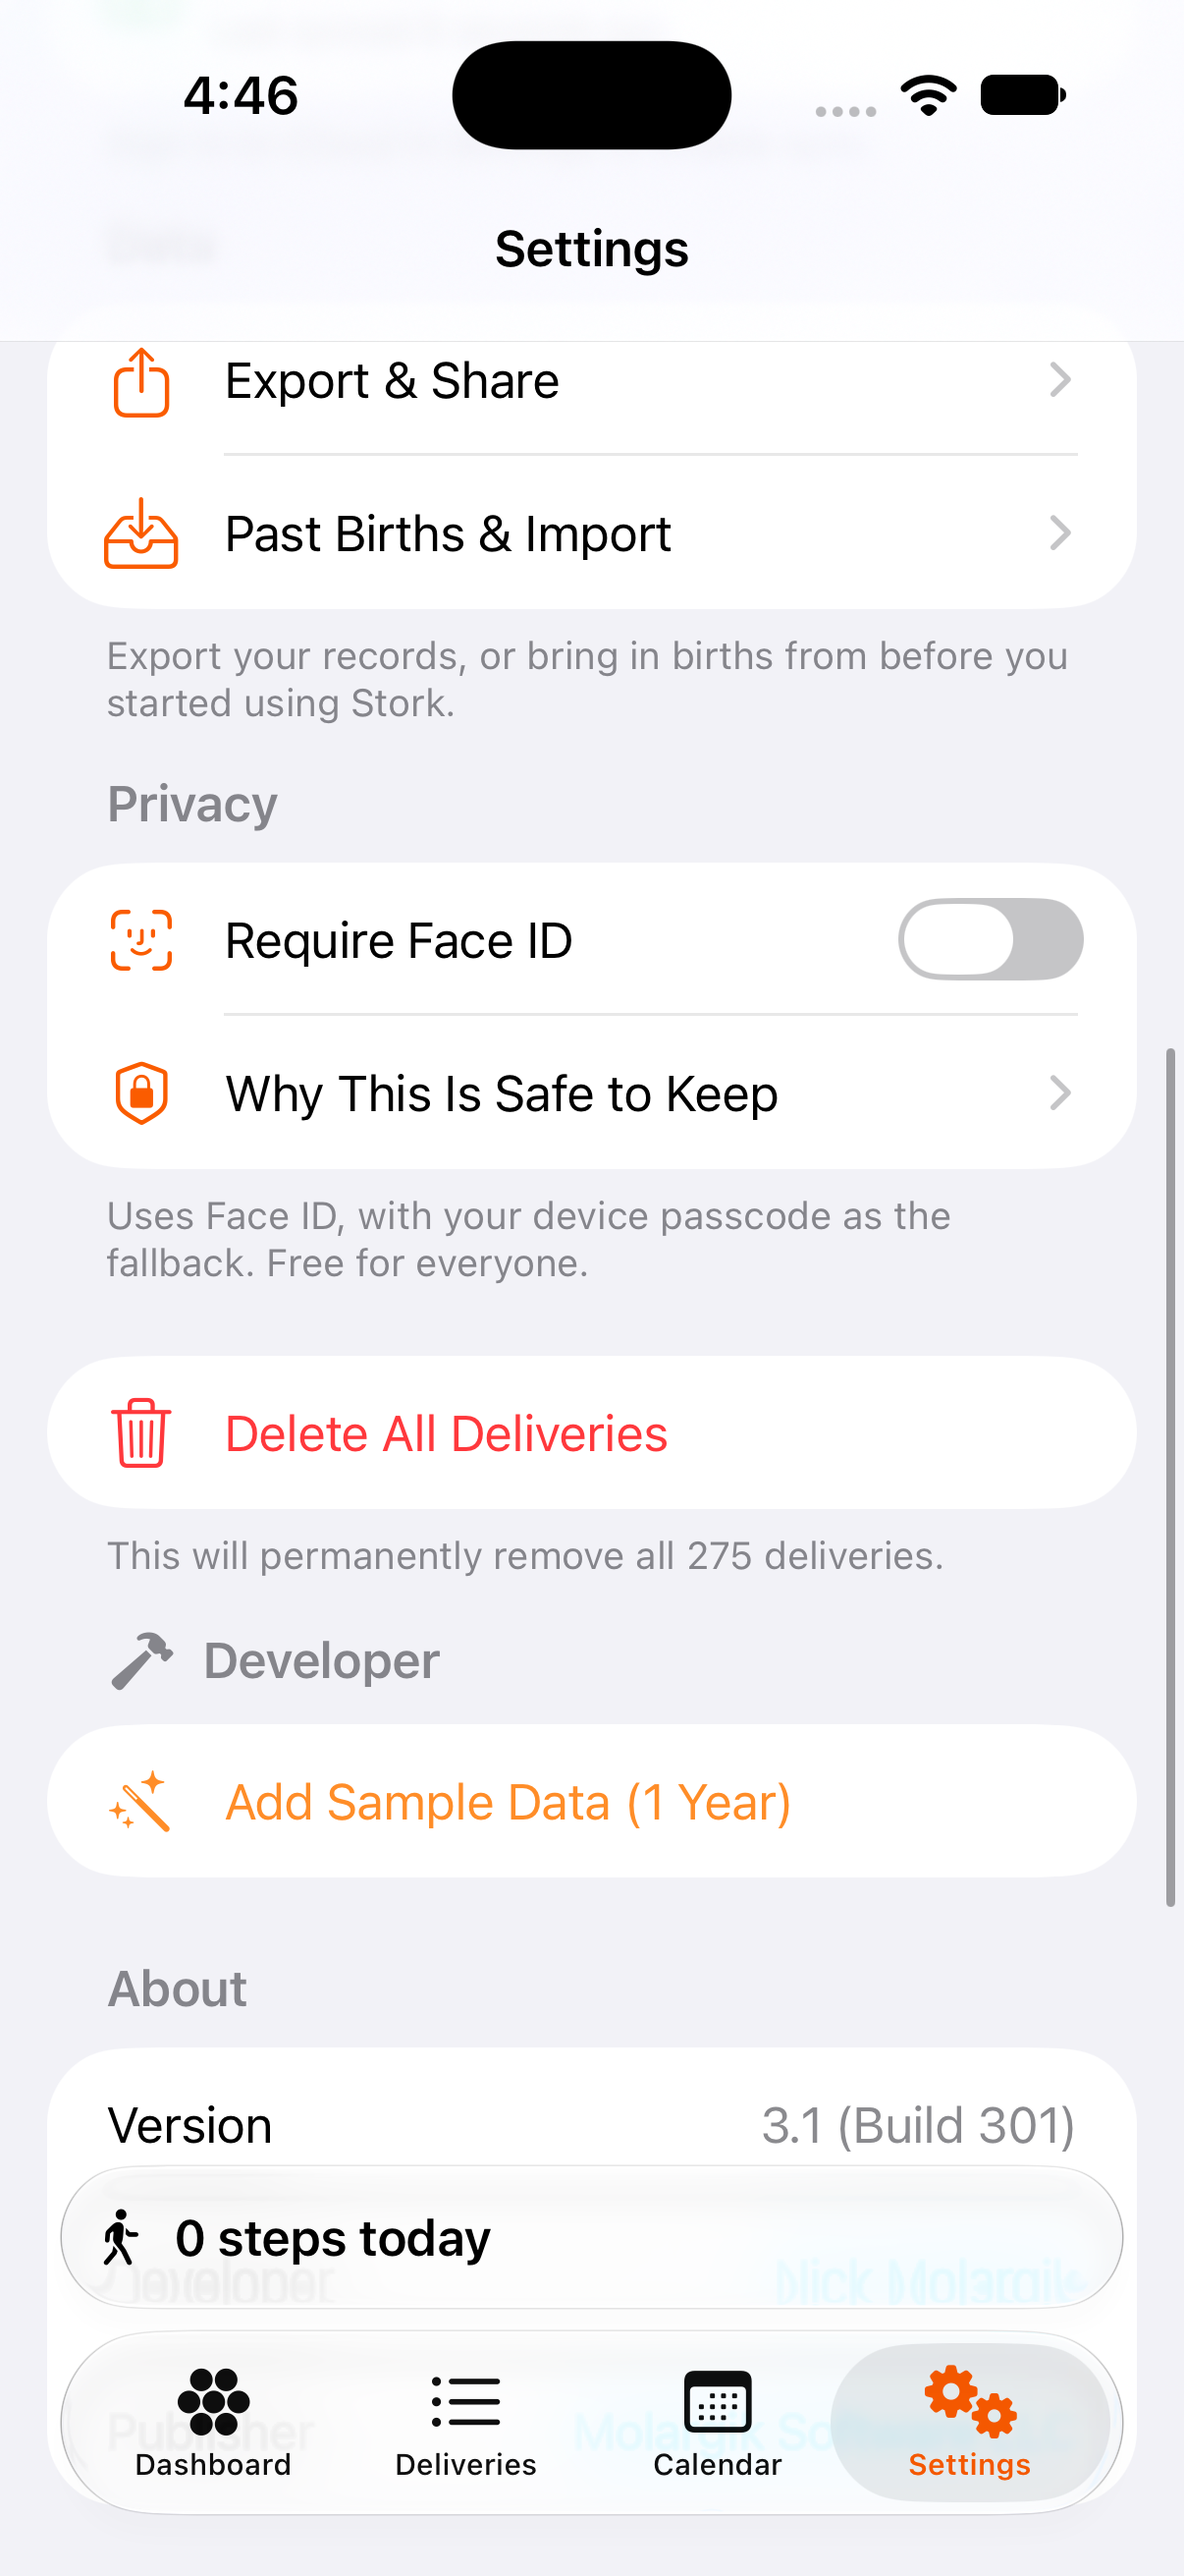
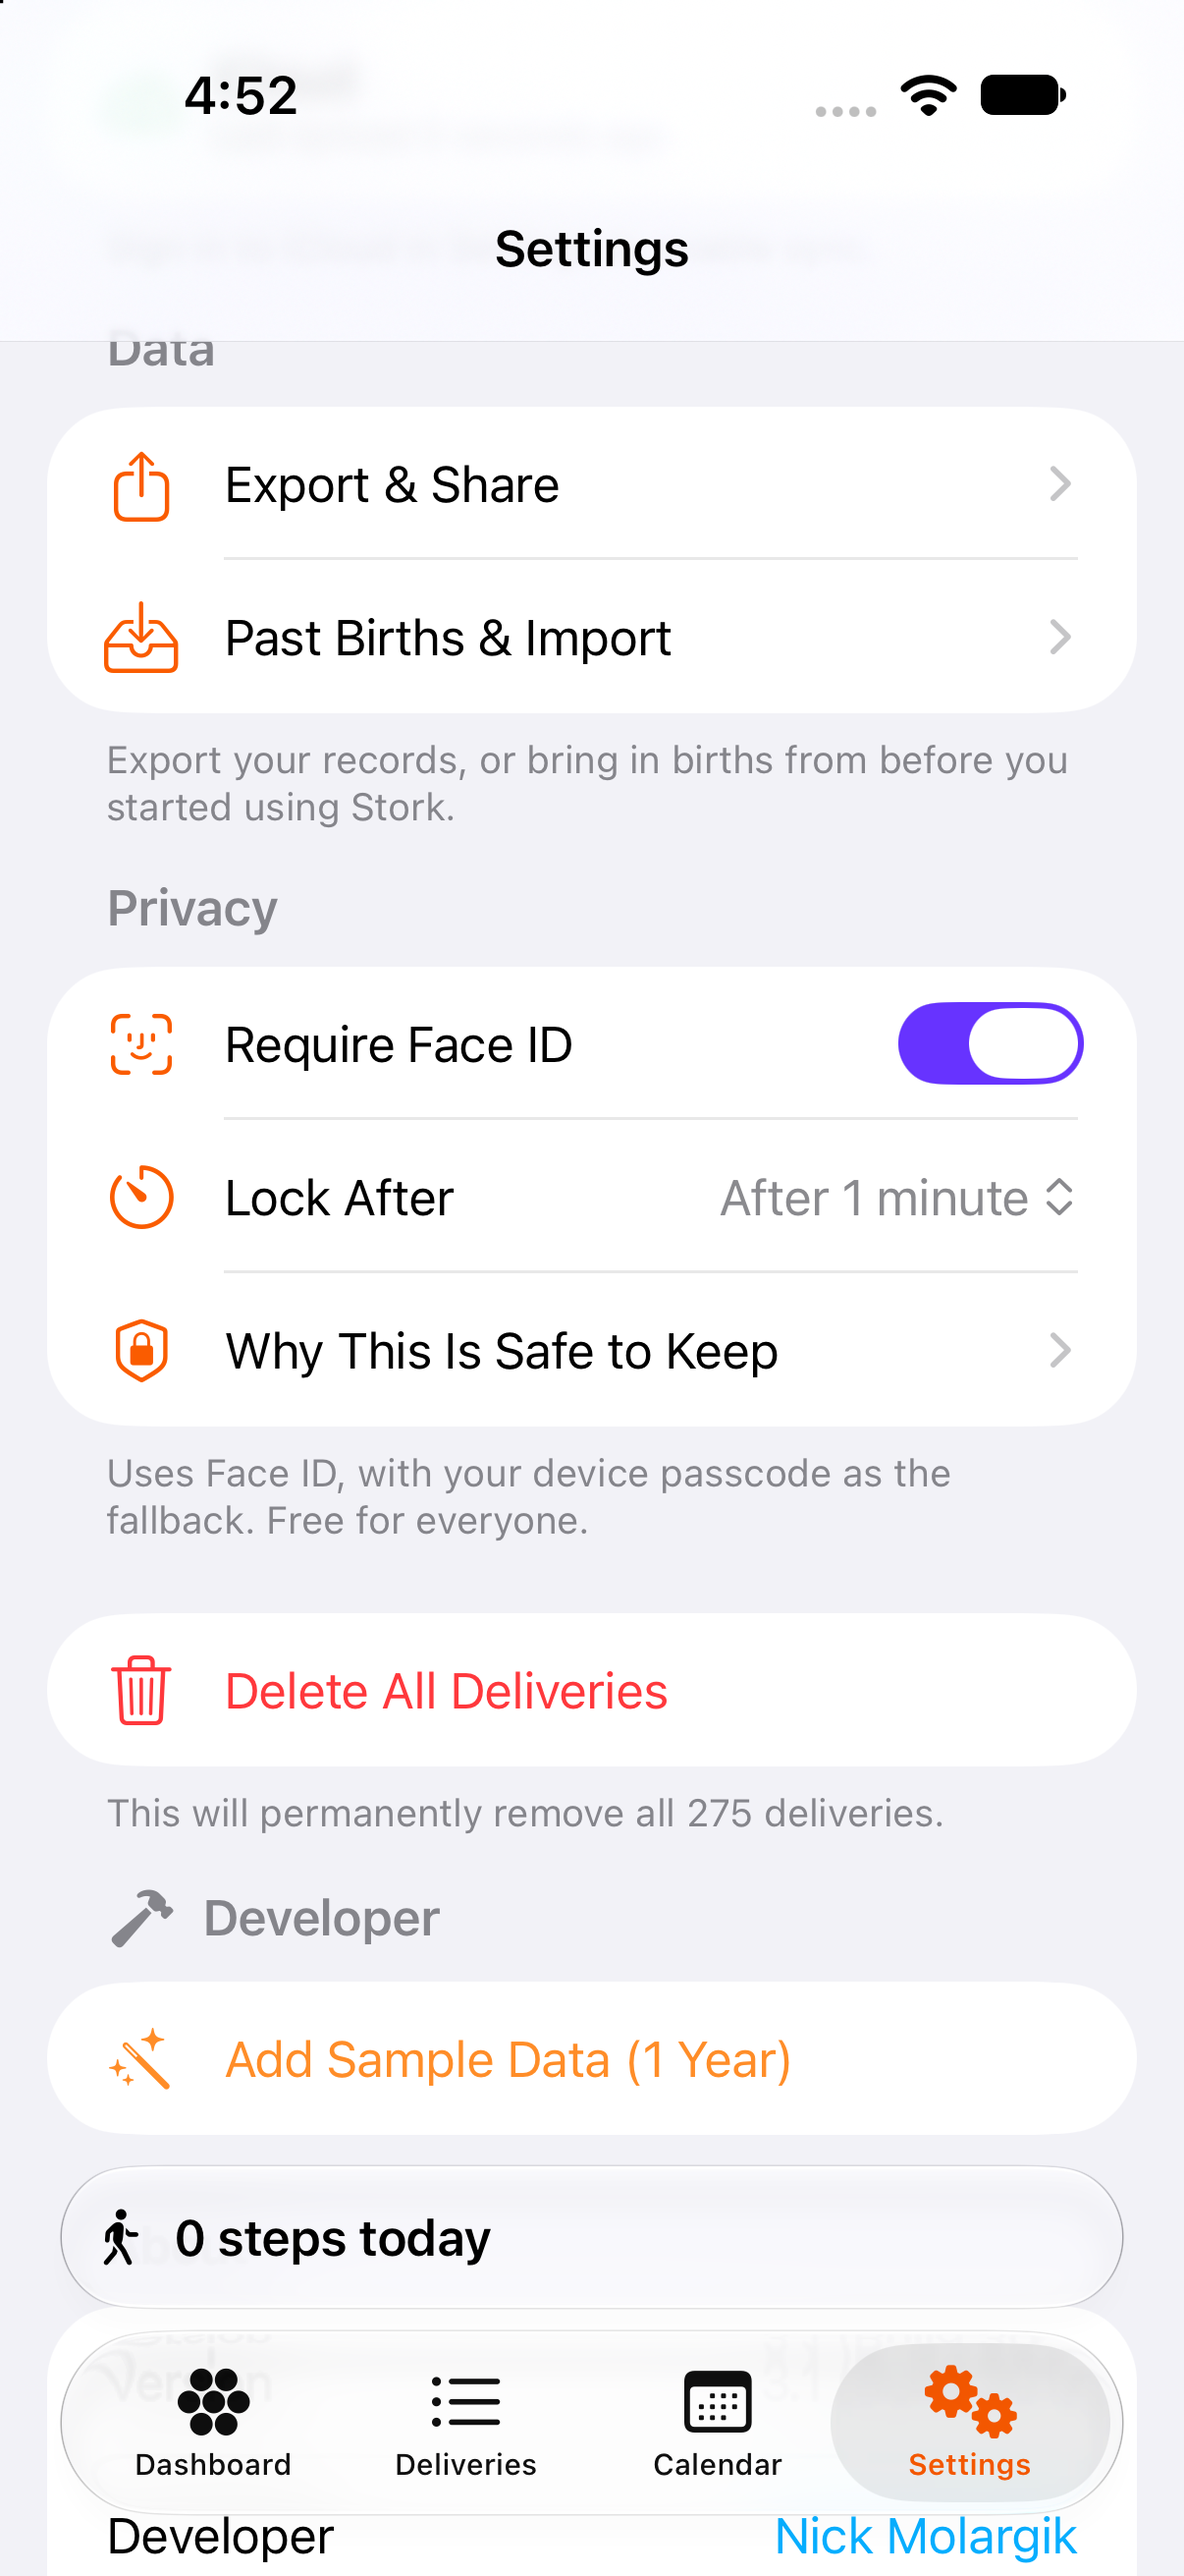
Identifier warning above the note field with keyboard hint; debug seed for past births; scroll dismisses keyboard

diff --git a/Packages/Stork/Sources/StorkFeatureDeliveries/Entry/DeliveryEntryView.swift b/Packages/Stork/Sources/StorkFeatureDeliveries/Entry/DeliveryEntryView.swift
@@ -37,9 +37,17 @@ public struct DeliveryEntryView: View {
                 TagsSection(model: model)
                 NotesSection(model: model)
             }
+            .scrollDismissesKeyboard(.interactively)
             .navigationTitle(model.isEditing ? "Edit Delivery" : "New Delivery")
             .navigationBarTitleDisplayMode(.inline)
             .toolbar {
+                // The keyboard covers the inline warning, so a short reminder rides above it.
+                ToolbarItem(placement: .keyboard) {
+                    if !model.noteIdentifierKinds.isEmpty {
+                        Label(String(localized: "Note may include an identifier", bundle: .module), systemImage: "hand.raised.fill")
+                            .font(.footnote).foregroundStyle(.orange)
+                    }
+                }
                 ToolbarItem(placement: .cancellationAction) {
                     Button(String(localized: "Cancel", bundle: .module)) { dismiss() }
                         .keyboardShortcut(.escape, modifiers: [])
@@ -274,7 +282,8 @@ public struct DeliveryEntryView: View {
                 } icon: {
                     Image(systemName: "hand.raised.fill").foregroundStyle(.orange)
                 }
-                Text(kinds.map(\.label).joined(separator: " \u{00B7} "))
+                // A name field already implies "looks like a name": show one, not both.
+                Text(kinds.filter { !($0 == .personName && kinds.contains(.nameField)) }.map(\.label).joined(separator: " \u{00B7} "))
                     .font(.caption2).foregroundStyle(.secondary)
                     .padding(.leading, 28)
             }
@@ -288,13 +297,14 @@ public struct DeliveryEntryView: View {
 
         var body: some View {
             Section {
-                TextField(String(localized: "Add a personal note...", bundle: .module), text: $model.notes, axis: .vertical)
-                    .lineLimit(3...6)
-                    .accessibilityLabel(Text("Delivery notes", bundle: .module))
+                // Above the field, not below it: the keyboard covers anything under a focused note.
                 let kinds = model.noteIdentifierKinds
                 if !kinds.isEmpty {
                     IdentifierWarning(kinds: kinds)
                 }
+                TextField(String(localized: "Add a personal note...", bundle: .module), text: $model.notes, axis: .vertical)
+                    .lineLimit(3...6)
+                    .accessibilityLabel(Text("Delivery notes", bundle: .module))
             } header: {
                 Text("Notes", bundle: .module)
             } footer: {

diff --git a/Packages/Stork/Sources/StorkCore/Domain/DebugLaunchOptions.swift b/Packages/Stork/Sources/StorkCore/Domain/DebugLaunchOptions.swift
@@ -9,6 +9,7 @@
 //    -StorkDebugNow 2026-12-05      pretend today is this date (seasonal dashboard card)
 //    -StorkInMemoryStore 1          in-memory store (unsigned simulator builds cannot open CloudKit)
 //    -StorkSeedWrapSample 1         seed two years of sample births when the store is empty
+//    -StorkSeedPastBirths 1         seed estimated past-birth summaries (2018 to 2022) when the store is empty
 //    -StorkOpenWrap 2026            present the Wrap for that year on the dashboard
 //    -StorkWrapPage 3               start the Wrap on this page index
 //    -StorkWrapIncludeRemembrance 1 turn the share-image remembrance toggle on
@@ -34,6 +35,7 @@ nonisolated public enum DebugLaunchOptions {
 
     public static var inMemoryStore: Bool { defaults.bool(forKey: "StorkInMemoryStore") }
     public static var seedWrapSample: Bool { defaults.bool(forKey: "StorkSeedWrapSample") }
+    public static var seedPastBirths: Bool { defaults.bool(forKey: "StorkSeedPastBirths") }
     public static var openWrapYear: Int? { defaults.object(forKey: "StorkOpenWrap") == nil ? nil : defaults.integer(forKey: "StorkOpenWrap") }
     public static var wrapPage: Int { defaults.integer(forKey: "StorkWrapPage") }
     public static var wrapIncludeRemembrance: Bool { defaults.bool(forKey: "StorkWrapIncludeRemembrance") }

diff --git a/Packages/Stork/Sources/StorkComposition/SessionController.swift b/Packages/Stork/Sources/StorkComposition/SessionController.swift
@@ -170,6 +170,12 @@ public final class SessionController {
             for delivery in DebugSampleBirths.twoYears() { container.mainContext.insert(delivery) }
             try? container.mainContext.save()
         }
+        if DebugLaunchOptions.seedPastBirths, ((try? loadDeliveries()) ?? []).isEmpty {
+            let years = PastBirths.years(from: 2018, to: 2022, average: 140)
+            let splits = PastBirthsSplits(multiplesPercent: 3, lossesPercent: 1, boysPercent: 51)
+            for delivery in PastBirths.makeDeliveries(years: years, splits: splits, role: .primaryNurse) { container.mainContext.insert(delivery) }
+            try? container.mainContext.save()
+        }
         #endif
     }
 }
